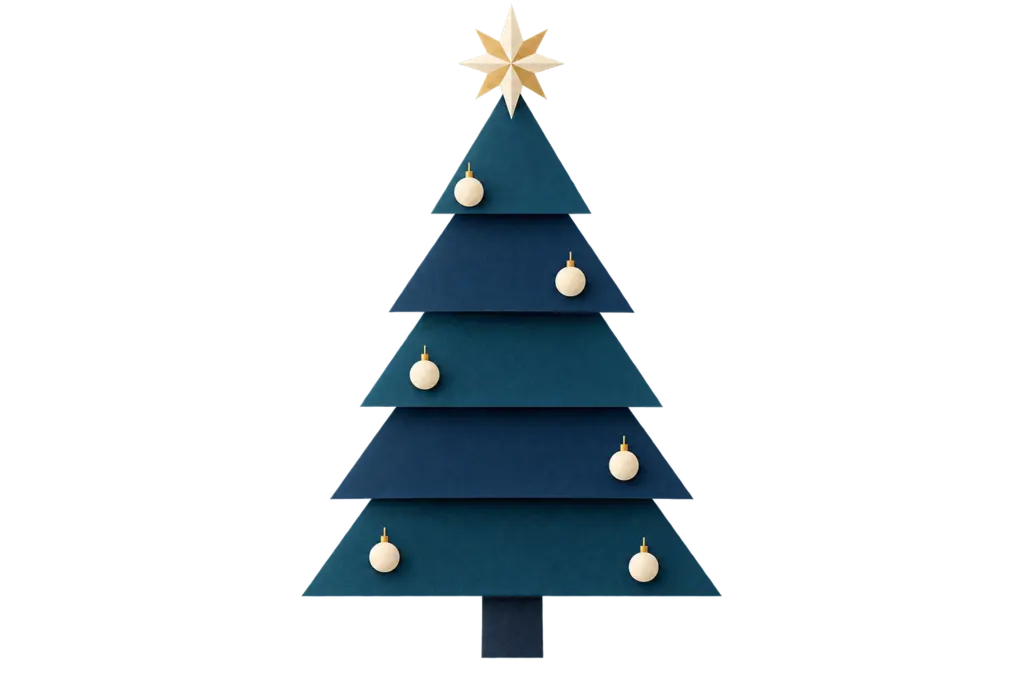
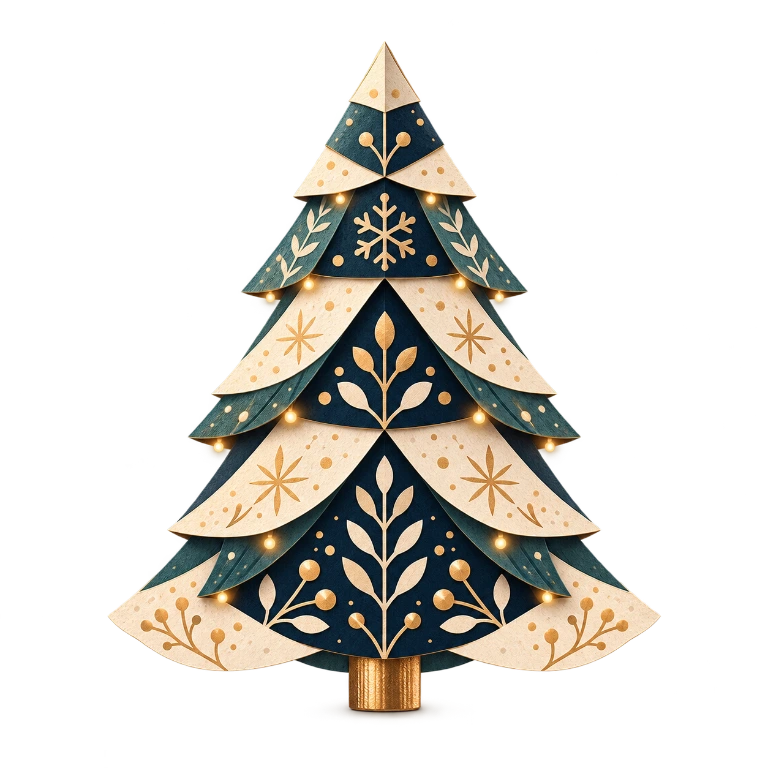
Add files via upload

Changed region(s): [[0.125, 0.0307, 0.875, 0.9839]]

diff --git a/2026-dyson-christmas/assets/js/app.js b/2026-dyson-christmas/assets/js/app.js
@@ -298,6 +298,12 @@ if(!safeRead(productCopyV43,false)){
 
 // Refresh the two replaced collectibles without changing participant progress or layouts.
 // Restore only the uploaded artwork; retain claims, placements and participant layouts.
+const SEASONAL_ARTWORK_DAYS=[12,19];
+const seasonalArtworkCopyKey=STORAGE_PREFIX+'seasonal-artwork-'+BASE_CONFIG.seasonalArtworkRevision;
+if(!safeRead(seasonalArtworkCopyKey,false)){
+  if(settings[19])delete settings[19].description;
+  safeWrite(STORAGE_PREFIX+'config',settings);safeWrite(seasonalArtworkCopyKey,true);
+}
 const RESTORED_ARTWORK_DAYS=[3,6,7,8];
 const restoredCopyKey=STORAGE_PREFIX+'restored-artwork-'+BASE_CONFIG.restoredArtworkRevision;
 if(!safeRead(restoredCopyKey,false)){
@@ -1147,10 +1153,10 @@ async function openDatabase(){
       if(moved.length)await new Promise((resolve,reject)=>{const tx=assetDb.transaction('images','readwrite'),store=tx.objectStore('images');for(const d of Object.keys(SCHEDULE_MOVES))store.delete(Number(d));for(const r of moved)store.put(r,r.day);tx.oncomplete=resolve;tx.onerror=()=>reject(tx.error);tx.onabort=()=>reject(tx.error||new Error('素材日期更新未完成'));});
       records=records.filter(r=>!SCHEDULE_MOVES[r.day]).concat(moved);safeWrite(scheduleKey+'-assets',true);
     }
-    for(const r of records||[]){if(RESTORED_ARTWORK_DAYS.includes(Number(r.day))&&r.restoredArtworkRevision!==BASE_CONFIG.restoredArtworkRevision)continue;if(CONTENT_REPLACED_DAYS.includes(Number(r.day))&&r.collectionContentRevision!==BASE_CONFIG.collectionContentRevision)continue;if(DEER_PAPER_DAYS.includes(Number(r.day))&&r.deerPaperRevision!==BASE_CONFIG.deerPaperRevision)continue;if(PAPER_SCENERY_DAYS.includes(Number(r.day))&&r.paperSceneryRevision!==BASE_CONFIG.paperSceneryRevision)continue;if(Number(r.day)===21&&r.departmentStoreRevision!==BASE_CONFIG.departmentStoreRevision)continue;if([107,109].includes(Number(r.day))&&r.softAnimalsRevision!==BASE_CONFIG.softAnimalsRevision)continue;if(Number(r.day)===106&&r.penguinRevision!==BASE_CONFIG.penguinRevision)continue;if(Number(r.day)===23&&r.santaTailRevision!==BASE_CONFIG.santaTailRevision)continue;if(PLAIN_COAT_DAYS.includes(Number(r.day))&&r.plainCoatRevision!==BASE_CONFIG.plainCoatRevision)continue;if(CHARACTER_REVISED_DAYS.includes(Number(r.day))&&r.characterRevision!==BASE_CONFIG.characterRevision)continue;if(CAT_COLLECTION_DAYS.includes(Number(r.day))&&r.catRevision!==BASE_CONFIG.catRevision)continue;if(PAPER_COLLECTION_DAYS.includes(Number(r.day))&&r.paperCollectionRevision!==BASE_CONFIG.paperCollectionRevision)continue;if(Number(r.day)===16&&r.stockingRevision!==BASE_CONFIG.stockingRevision)continue;if(SCENE_REPLACED_DAYS.includes(Number(r.day))&&r.sceneRevision!==BASE_CONFIG.sceneRevision)continue;if(!itemByDay(r.day)?.product&&r.productModel)continue;if(itemByDay(r.day)?.product&&ASSETS.productStyle&&(r.productStyle!==ASSETS.productStyle||r.productModel!==itemByDay(r.day).product.model))continue;if(ASSETS.visualStyle==='paper-relief-v1'&&!item(r.day)?.product&&r.visualStyle!=='paper-relief-v1')continue;if(r.removed)customAssets.delete(r.day);else try{customAssets.set(r.day,{src:r.src,image:await imageLoad(r.src)});}catch{}}
+    for(const r of records||[]){if(SEASONAL_ARTWORK_DAYS.includes(Number(r.day))&&r.seasonalArtworkRevision!==BASE_CONFIG.seasonalArtworkRevision)continue;if(RESTORED_ARTWORK_DAYS.includes(Number(r.day))&&r.restoredArtworkRevision!==BASE_CONFIG.restoredArtworkRevision)continue;if(CONTENT_REPLACED_DAYS.includes(Number(r.day))&&r.collectionContentRevision!==BASE_CONFIG.collectionContentRevision)continue;if(DEER_PAPER_DAYS.includes(Number(r.day))&&r.deerPaperRevision!==BASE_CONFIG.deerPaperRevision)continue;if(PAPER_SCENERY_DAYS.includes(Number(r.day))&&r.paperSceneryRevision!==BASE_CONFIG.paperSceneryRevision)continue;if(Number(r.day)===21&&r.departmentStoreRevision!==BASE_CONFIG.departmentStoreRevision)continue;if([107,109].includes(Number(r.day))&&r.softAnimalsRevision!==BASE_CONFIG.softAnimalsRevision)continue;if(Number(r.day)===106&&r.penguinRevision!==BASE_CONFIG.penguinRevision)continue;if(Number(r.day)===23&&r.santaTailRevision!==BASE_CONFIG.santaTailRevision)continue;if(PLAIN_COAT_DAYS.includes(Number(r.day))&&r.plainCoatRevision!==BASE_CONFIG.plainCoatRevision)continue;if(CHARACTER_REVISED_DAYS.includes(Number(r.day))&&r.characterRevision!==BASE_CONFIG.characterRevision)continue;if(CAT_COLLECTION_DAYS.includes(Number(r.day))&&r.catRevision!==BASE_CONFIG.catRevision)continue;if(PAPER_COLLECTION_DAYS.includes(Number(r.day))&&r.paperCollectionRevision!==BASE_CONFIG.paperCollectionRevision)continue;if(Number(r.day)===16&&r.stockingRevision!==BASE_CONFIG.stockingRevision)continue;if(SCENE_REPLACED_DAYS.includes(Number(r.day))&&r.sceneRevision!==BASE_CONFIG.sceneRevision)continue;if(!itemByDay(r.day)?.product&&r.productModel)continue;if(itemByDay(r.day)?.product&&ASSETS.productStyle&&(r.productStyle!==ASSETS.productStyle||r.productModel!==itemByDay(r.day).product.model))continue;if(ASSETS.visualStyle==='paper-relief-v1'&&!item(r.day)?.product&&r.visualStyle!=='paper-relief-v1')continue;if(r.removed)customAssets.delete(r.day);else try{customAssets.set(r.day,{src:r.src,image:await imageLoad(r.src)});}catch{}}
   }catch{assetDb=null;assetStorage='memory';}
 }
-function dbWrite(day,src){return new Promise((resolve,reject)=>{if(!assetDb){resolve();return;}const tx=assetDb.transaction('images','readwrite');tx.objectStore('images').put(src?{day,src,restoredArtworkRevision:BASE_CONFIG.restoredArtworkRevision,collectionContentRevision:BASE_CONFIG.collectionContentRevision,deerPaperRevision:BASE_CONFIG.deerPaperRevision,paperSceneryRevision:BASE_CONFIG.paperSceneryRevision,departmentStoreRevision:BASE_CONFIG.departmentStoreRevision,softAnimalsRevision:BASE_CONFIG.softAnimalsRevision,penguinRevision:BASE_CONFIG.penguinRevision,santaTailRevision:BASE_CONFIG.santaTailRevision,plainCoatRevision:BASE_CONFIG.plainCoatRevision,characterRevision:BASE_CONFIG.characterRevision,catRevision:BASE_CONFIG.catRevision,paperCollectionRevision:BASE_CONFIG.paperCollectionRevision,sceneRevision:BASE_CONFIG.sceneRevision,stockingRevision:BASE_CONFIG.stockingRevision,visualStyle:ASSETS.visualStyle,productStyle:item(day).product?ASSETS.productStyle:null,productModel:configuredItem(day).product?.model||null}:{day,removed:true,visualStyle:ASSETS.visualStyle},day);tx.oncomplete=()=>resolve();tx.onerror=()=>reject(tx.error);});}
+function dbWrite(day,src){return new Promise((resolve,reject)=>{if(!assetDb){resolve();return;}const tx=assetDb.transaction('images','readwrite');tx.objectStore('images').put(src?{day,src,seasonalArtworkRevision:BASE_CONFIG.seasonalArtworkRevision,restoredArtworkRevision:BASE_CONFIG.restoredArtworkRevision,collectionContentRevision:BASE_CONFIG.collectionContentRevision,deerPaperRevision:BASE_CONFIG.deerPaperRevision,paperSceneryRevision:BASE_CONFIG.paperSceneryRevision,departmentStoreRevision:BASE_CONFIG.departmentStoreRevision,softAnimalsRevision:BASE_CONFIG.softAnimalsRevision,penguinRevision:BASE_CONFIG.penguinRevision,santaTailRevision:BASE_CONFIG.santaTailRevision,plainCoatRevision:BASE_CONFIG.plainCoatRevision,characterRevision:BASE_CONFIG.characterRevision,catRevision:BASE_CONFIG.catRevision,paperCollectionRevision:BASE_CONFIG.paperCollectionRevision,sceneRevision:BASE_CONFIG.sceneRevision,stockingRevision:BASE_CONFIG.stockingRevision,visualStyle:ASSETS.visualStyle,productStyle:item(day).product?ASSETS.productStyle:null,productModel:configuredItem(day).product?.model||null}:{day,removed:true,visualStyle:ASSETS.visualStyle},day);tx.oncomplete=()=>resolve();tx.onerror=()=>reject(tx.error);});}
 async function removeCustomAsset(d){customAssets.delete(d);sprites.delete(d);await dbWrite(d,null).catch(()=>{});renderUI();renderStudio();}
 $('asset-input').addEventListener('change',async e=>{const file=e.target.files?.[0],d=assetUploadDay;if(!file||!d)return;if(file.size>12*1024*1024){$('config-status').textContent='單張圖片請控制在 12 MB 內。';return;}
   try{const src=await new Promise((resolve,reject)=>{const r=new FileReader();r.onload=()=>resolve(r.result);r.onerror=()=>reject(r.error);r.readAsDataURL(file);});const image=await imageLoad(src);customAssets.set(d,{src,image});sprites.delete(d);try{await dbWrite(d,src);}catch{assetStorage='memory';}$('config-status').textContent=`12/${d} 圖片已替換。可下載新版 config.js 保留素材。`;renderUI();renderStudio();}catch(err){$('config-status').textContent=err.message;}

diff --git a/2026-dyson-christmas/assets/js/config.js b/2026-dyson-christmas/assets/js/config.js
@@ -9,7 +9,7 @@ window.DYSON_CLOUD_CONFIG = {
 window.DYSON_GAME_CONFIG = {
   "deerPaperRevision": "20261027-quiet-paper-deer",
   "paperSceneryRevision": "20261027-quiet-paper-overwrite",
-  "version": 53,
+  "version": 54,
   "cardShareUrl": "https://hlh.tw/2026-dyson-christmas",
   "cardShareText": "我把一點雪、一點星光，還有想你的心意，都裝進這顆水晶球了。",
   "visualStyle": "paper-relief-v1",
@@ -335,7 +335,7 @@ window.DYSON_GAME_CONFIG = {
       "day": 19,
       "type": "聖誕造景",
       "name": "拐杖糖＋糖果雨",
-      "description": "放入紅白拐杖糖，紅、綠、藍、紫、金色小糖果與迷你拐杖糖就會從球頂繽紛飄落；落地後淡出，移除拐杖糖便停止糖果雨。",
+      "description": "放入紅、綠與米白條紋拐杖糖，紅、綠、藍、紫、金色小糖果與迷你拐杖糖就會從球頂繽紛飄落；落地後淡出，移除拐杖糖便停止糖果雨。",
       "benefit": null,
       "assetNeed": "微立體紙雕拐杖糖透明圖及糖果雨粒子",
       "hint": "今天有一場甜甜的聖誕糖果雨，等待你親手開啟。",
@@ -668,7 +668,8 @@ window.DYSON_GAME_CONFIG = {
   "softAnimalsRevision": "20261024-sea-otter-face-v48",
   "departmentStoreRevision": "20261023-dyson-sign-v38",
   "collectionContentRevision": "20261028-hat-meteor-originals",
-  "restoredArtworkRevision": "20261027-uploaded-originals"
+  "restoredArtworkRevision": "20261027-uploaded-originals",
+  "seasonalArtworkRevision": "20261028-tree-redgreen"
 };
 
 window.DYSON_ASSETS = {
@@ -690,13 +691,13 @@ window.DYSON_ASSETS = {
     "9": "./assets/images/scene/day-09-street-lamp.webp?rev=20261027-2",
     "10": "./assets/images/products/sv50-snowglobe.png",
     "11": "./assets/images/scene/day-11-reindeer.webp?rev=20261028-artwork-repair",
-    "12": "./assets/images/scene/day-12-christmas-tree.webp?rev=20261027-2",
+    "12": "./assets/images/scene/day-12-christmas-tree.webp?rev=20261028-tree-redgreen",
     "14": "./assets/images/scene/day-14-christmas-wreath.webp?rev=20261027-2",
     "15": "./assets/images/products/hj10-snowglobe.png",
     "16": "./assets/images/scene/day-16-red-green-stocking-row.webp?rev=20261027-2",
     "17": "./assets/images/scene/day-17-gingerbread.webp?rev=20261027-2",
     "18": "./assets/images/scene/day-18-clock-tower.webp?rev=20261027-2",
-    "19": "./assets/images/scene/day-19-candy-cane.webp?rev=20261027-2",
+    "19": "./assets/images/scene/day-19-candy-cane.webp?rev=20261028-tree-redgreen",
     "20": "./assets/images/products/bp10-snowglobe.png",
     "21": "./assets/images/scene/day-21-department-store-dyson-v38.webp?rev=20261027-2",
     "22": "./assets/images/scene/day-22-golden-sleigh.webp?rev=20261027-2",

diff --git a/2026-dyson-christmas/index.html b/2026-dyson-christmas/index.html
@@ -1,6 +1,6 @@
 <!doctype html>
 <html lang="zh-Hant">
-<head><meta charset="utf-8"><meta name="viewport" content="width=device-width,initial-scale=1"><meta name="theme-color" content="#10141c"><title>Dyson 璀璨雪境｜25 日聖誕收藏</title><link rel="stylesheet" href="./assets/css/style.css?v=20261028-artwork-repair"></head>
+<head><meta charset="utf-8"><meta name="viewport" content="width=device-width,initial-scale=1"><meta name="theme-color" content="#10141c"><title>Dyson 璀璨雪境｜25 日聖誕收藏</title><link rel="stylesheet" href="./assets/css/style.css?v=20261028-tree-redgreen"></head>
 <body>
 <dialog id="welcome-dialog" class="welcome-dialog" aria-labelledby="welcome-title" aria-describedby="welcome-description">
  <div class="welcome-topline"><span class="welcome-label">玩法與雪境靈感</span><button id="welcome-skip" type="button" aria-label="關閉活動介紹">關閉 ×</button></div>
@@ -72,8 +72,8 @@
 
 
 
-<script src="./assets/js/config.js?v=20261028-artwork-repair"></script>
+<script src="./assets/js/config.js?v=20261028-tree-redgreen"></script>
 <script src="./assets/js/media-codecs.js"></script>
-<script src="./assets/js/media-mp4.js?v=20261028-artwork-repair"></script>
-<script src="./assets/js/app.js?v=20261028-artwork-repair"></script>
+<script src="./assets/js/media-mp4.js?v=20261028-tree-redgreen"></script>
+<script src="./assets/js/app.js?v=20261028-tree-redgreen"></script>
 </body></html>

diff --git a/2026-dyson-christmas/README.md b/2026-dyson-christmas/README.md
@@ -1,18 +1,14 @@
-# 2026 Dyson 聖誕收藏 · v53 圖片原檔補正
+# 2026 Dyson 聖誕收藏 · v54
 
-已直接核對正式網站。正式站載入的是 v52 程式，但 Day 4、Day 11 的圖片網址仍回傳舊小屋、舊小麋鹿原檔，造成名稱與圖片不一致。只修改縮圖重畫無法替換伺服器上的舊圖片。
+Day 12 主聖誕樹改用使用者本次上傳的 `day-12-christmas-tree.webp` 原檔；Day 19 拐杖糖改為紅、綠、米白條紋紙雕圖，移除原本的金黃色條紋。
 
-本包補上兩張正確圖片，沿用原檔名與原路徑直接覆蓋：
-
-- Day 4 聖誕帽：`assets/images/scene/day-04-christmas-house.webp`
-- Day 11 流星：`assets/images/scene/day-11-reindeer.webp`
-
-這兩個舊檔名為了相容現有網站而保留，檔案內容已分別是聖誕帽與流星。本包也更新程式快取標記及這兩件物件的舊自訂圖片快取辨識，讓預覽、物件介紹和水晶球都載入正確圖片。
-
-所有其他圖檔維持原樣；先前恢復的六個原圖不受影響。收藏、擺放位置、Email、權限及優惠券進度保留。不需清除網站資料，不需更新 Apps Script。
-
-請依 UPDATE.md 整包覆蓋，確保兩張 WebP 與程式一起上傳。
+- 主聖誕樹原檔直接複製，未重新生成、縮放或壓縮。
+- 拐杖糖以內建 ImageGen 編輯原圖配色，保留原本鉤形、方向及紙雕質感；最終提示詞見 PROMPTS.json。
+- 兩圖均沿原檔名、原路徑覆蓋，縮圖、介紹視窗與水晶球共用同一素材。
+- 一併包含 v53 的聖誕帽、流星正確圖片，可直接覆蓋 v52 或 v53。
+- 收藏、擺放位置、Email、權限及優惠券進度保留；四款產品、其餘動物與其他圖檔維持原樣。
+- 不需更新 Apps Script。部署方式見 UPDATE.md，兩張本次素材預覽見 PREVIEW.webp。
 
 ## 驗證
 
-直接讀取正式站 HTML、JS 與兩張圖片，確認現行程式與 v52 相同，但兩個圖片網址回傳的仍是舊屋／舊鹿。已在正式站頁面的獨立測試瀏覽器重現；只於測試瀏覽器套用本包 HTML、config 及兩張正確圖片後，Day 4／11 的縮圖與實際載入影像均通過原圖像素核對。正式站仍需由本包上傳後才會更新，本次未修改正式網站或 Sheet。
+32 件非效果縮圖與實際素材逐像素核對通過（容許極小反鋸齒誤差）；主樹及拐杖糖的舊圖片快取更新、其餘自訂圖與既有位置保留，390px 手機顯示、PNG／GIF／MP4 輸出通過，MP4 為 5 秒／60 格。沒有 JS 錯誤或圖片 404。未直接修改正式網站或 Sheet。

diff --git a/2026-dyson-christmas/UPDATE.md b/2026-dyson-christmas/UPDATE.md
@@ -1,17 +1,14 @@
-# v53 更新方式
+# v54 同名覆蓋更新
 
-基準為 v52。將本包 `2026-dyson-christmas/` 內的所有檔案按相同路徑合併至 GitHub 的 `campaigns/2026-dyson-christmas/`，覆蓋同名檔。
+基準為 v52 或 v53。將本包 `2026-dyson-christmas/` 內全部檔案依原路徑合併至 GitHub 的 `campaigns/2026-dyson-christmas/`，覆蓋同名檔。不要刪除整個活動資料夾。
 
-## 必須一起覆蓋
+## 圖片檔必須一起上傳
 
-- `index.html`
-- `assets/js/app.js`
-- `assets/js/config.js`
-- **`assets/images/scene/day-04-christmas-house.webp`：正確的聖誕帽圖片**
-- **`assets/images/scene/day-11-reindeer.webp`：正確的流星圖片**
+- `assets/images/scene/day-12-christmas-tree.webp`：本次上傳的主聖誕樹原檔。
+- `assets/images/scene/day-19-candy-cane.webp`：紅、綠、米白條紋拐杖糖。
+- `assets/images/scene/day-04-christmas-house.webp`：沿舊檔名的聖誕帽，延續 v53 補正。
+- `assets/images/scene/day-11-reindeer.webp`：沿舊檔名的流星，延續 v53 補正。
 
-本包包含正確圖片，請勿只上傳 JS／HTML。圖片檔名沿用，無須手動改名或新增版本資料夾。
+一併覆蓋本包 index.html、app.js、config.js，讓圖片快取與縮圖同步更新。圖檔不加版本後綴，無須手動改名。
 
-等待 GitHub Pages 部署完成，再重新整理頁面。Day 4 的收藏縮圖、物件介紹及球內物件皆應為聖誕帽；Day 11 皆應為流星。
-
-本包為修補檔，請合併覆蓋，不要刪除整個活動資料夾。其他圖檔、產品、動物及既有活動進度維持原樣，Apps Script 無需更新。
+部署完成後重新整理，確認 Day 12 主樹與上傳圖一致、Day 19 有紅綠條紋，Day 4／11 仍為聖誕帽／流星。主樹與拐杖糖的舊自訂圖片快取會更新；從 v52 更新者也會一併套用 v53 聖誕帽與流星的素材補正，其他自訂素材保留。原收藏與已保存位置不變，不需清除網站資料，Apps Script 無需更新。

diff --git a/2026-dyson-christmas/ASSET-NOTES.md b/2026-dyson-christmas/ASSET-NOTES.md
@@ -1,14 +1,8 @@
-# v51 原檔恢復記錄
+# v54 素材記錄
 
-以下六個檔案直接複製自本次上傳，網站圖檔未重新生成、縮放或壓縮。逐件位元組與 SHA-256 比對通過。
+主聖誕樹採用本次上傳的 WebP 原檔，逐位元組一致。拐杖糖由內建 ImageGen 編輯原圖，改為紅、綠與米白條紋；僅做等比縮小及 WebP 格式最佳化，沒有以程式重畫造型。最終提示詞見 PROMPTS.json。
 
-| 原檔名 | SHA-256 |
-| --- | --- |
-| day-03-ribbon-gift.webp | 69b99f293a40c18b7f8f46fc5c09809c303185eb50e3e01f01ce461555114e60 |
-| day-06-snowman.webp | 6c1883b2e05ec842b0f620297ca6ca21c384975c4ebe4d2e130a5630d62da1d9 |
-| day-07-christmas-bauble.webp | d9011ef69bc8d16b0401380f6c536732f1d1ff02bf06bf26a4e736a291abdf93 |
-| snow-globe-background.webp | b0eedc3b04de2b653c5d3c9b945ce5197b6eff977c6c8a78b6c4adb8a861aeac |
-| style-reference.webp | 3bd4f5159b729e0a0c68a2e40d5c4589c0fe72e898c92a259146b7916b4ed0df |
-| day-08-leaping-reindeer-paper-v28.webp | 62eeee4417cedc59ea984f188e792c8fa25fda038125fa443ac0cf5d7ef93325 |
[2 lines of base64/hex data omitted]
 
-介紹影片與封面由網站以這些原檔及原產品／動物繪製，縮圖總覽僅供查看。Day 4 聖誕帽與 Day 11 流星不受恢復影響。
+其餘 67 個圖片檔案與 v53 相同。本包一併附上 v53 的聖誕帽與流星正確圖，方便直接覆蓋 v52 或 v53。
